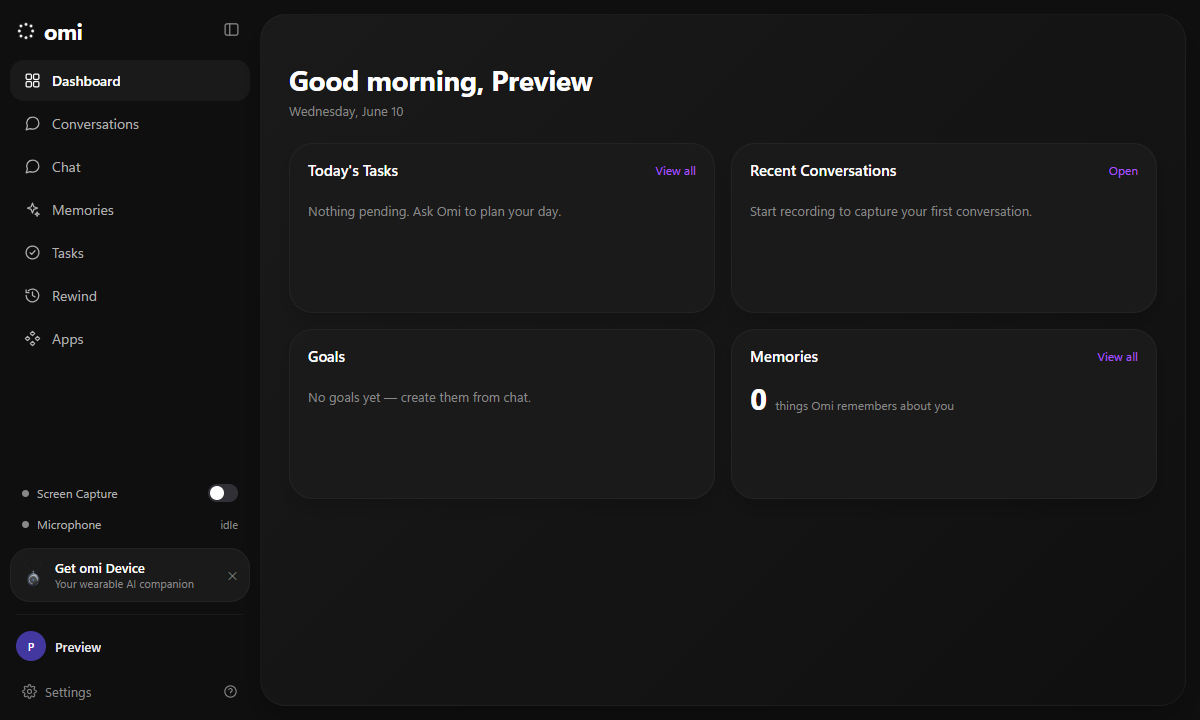
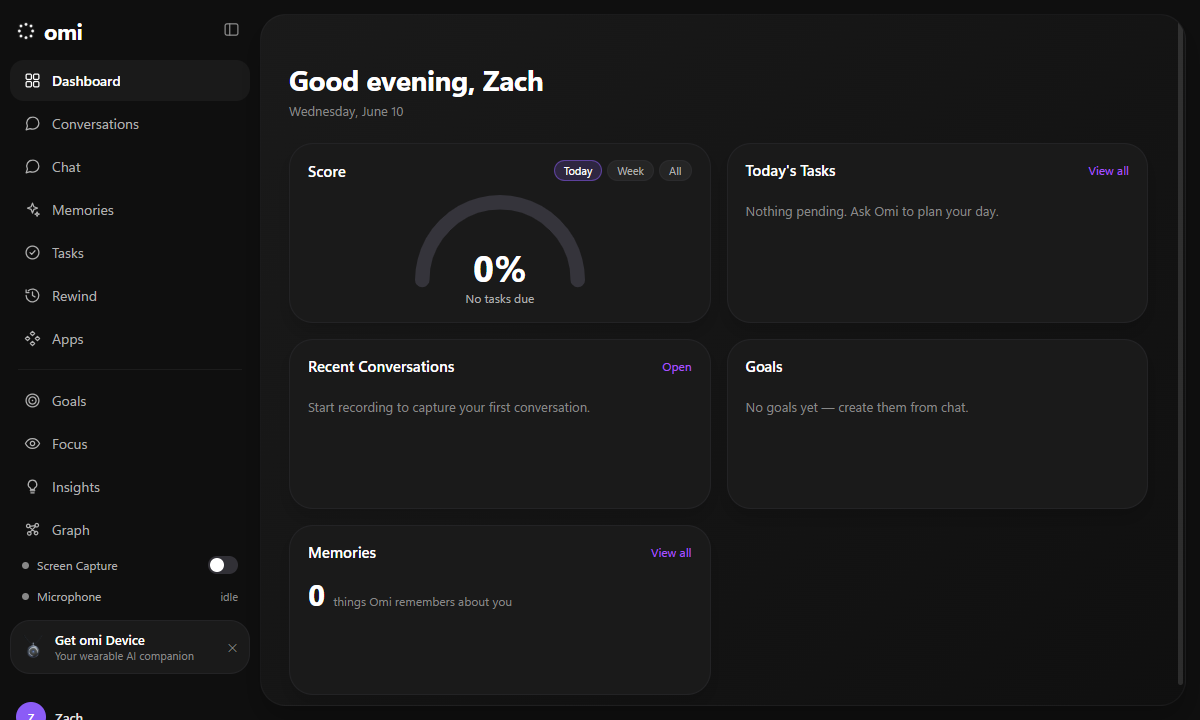
docs(windows): add Goals/Focus/Graph screenshots; expand screenshot gallery

diff --git a/desktop/Windows/README.md b/desktop/Windows/README.md
@@ -13,10 +13,14 @@ can reasonably support.
 
 | | |
 |---|---|
-| Dashboard | ![dashboard](docs/screenshots/dashboard.png) |
+| Dashboard (score gauge + widgets) | ![dashboard](docs/screenshots/dashboard.png) |
 | Conversations + live recording | ![conversations](docs/screenshots/conversations.png) |
+| Goals | ![goals](docs/screenshots/goals.png) |
+| Focus | ![focus](docs/screenshots/focus.png) |
+| Memory graph | ![graph](docs/screenshots/graph.png) |
 | Memories | ![memories](docs/screenshots/memories.png) |
 | Rewind | ![rewind](docs/screenshots/rewind.png) |
+| Insights (proactive) | ![insights](docs/screenshots/insights.png) |
 | Settings | ![settings](docs/screenshots/settings.png) |
 | Sign-in | ![signin](docs/screenshots/signin.png) |
 
